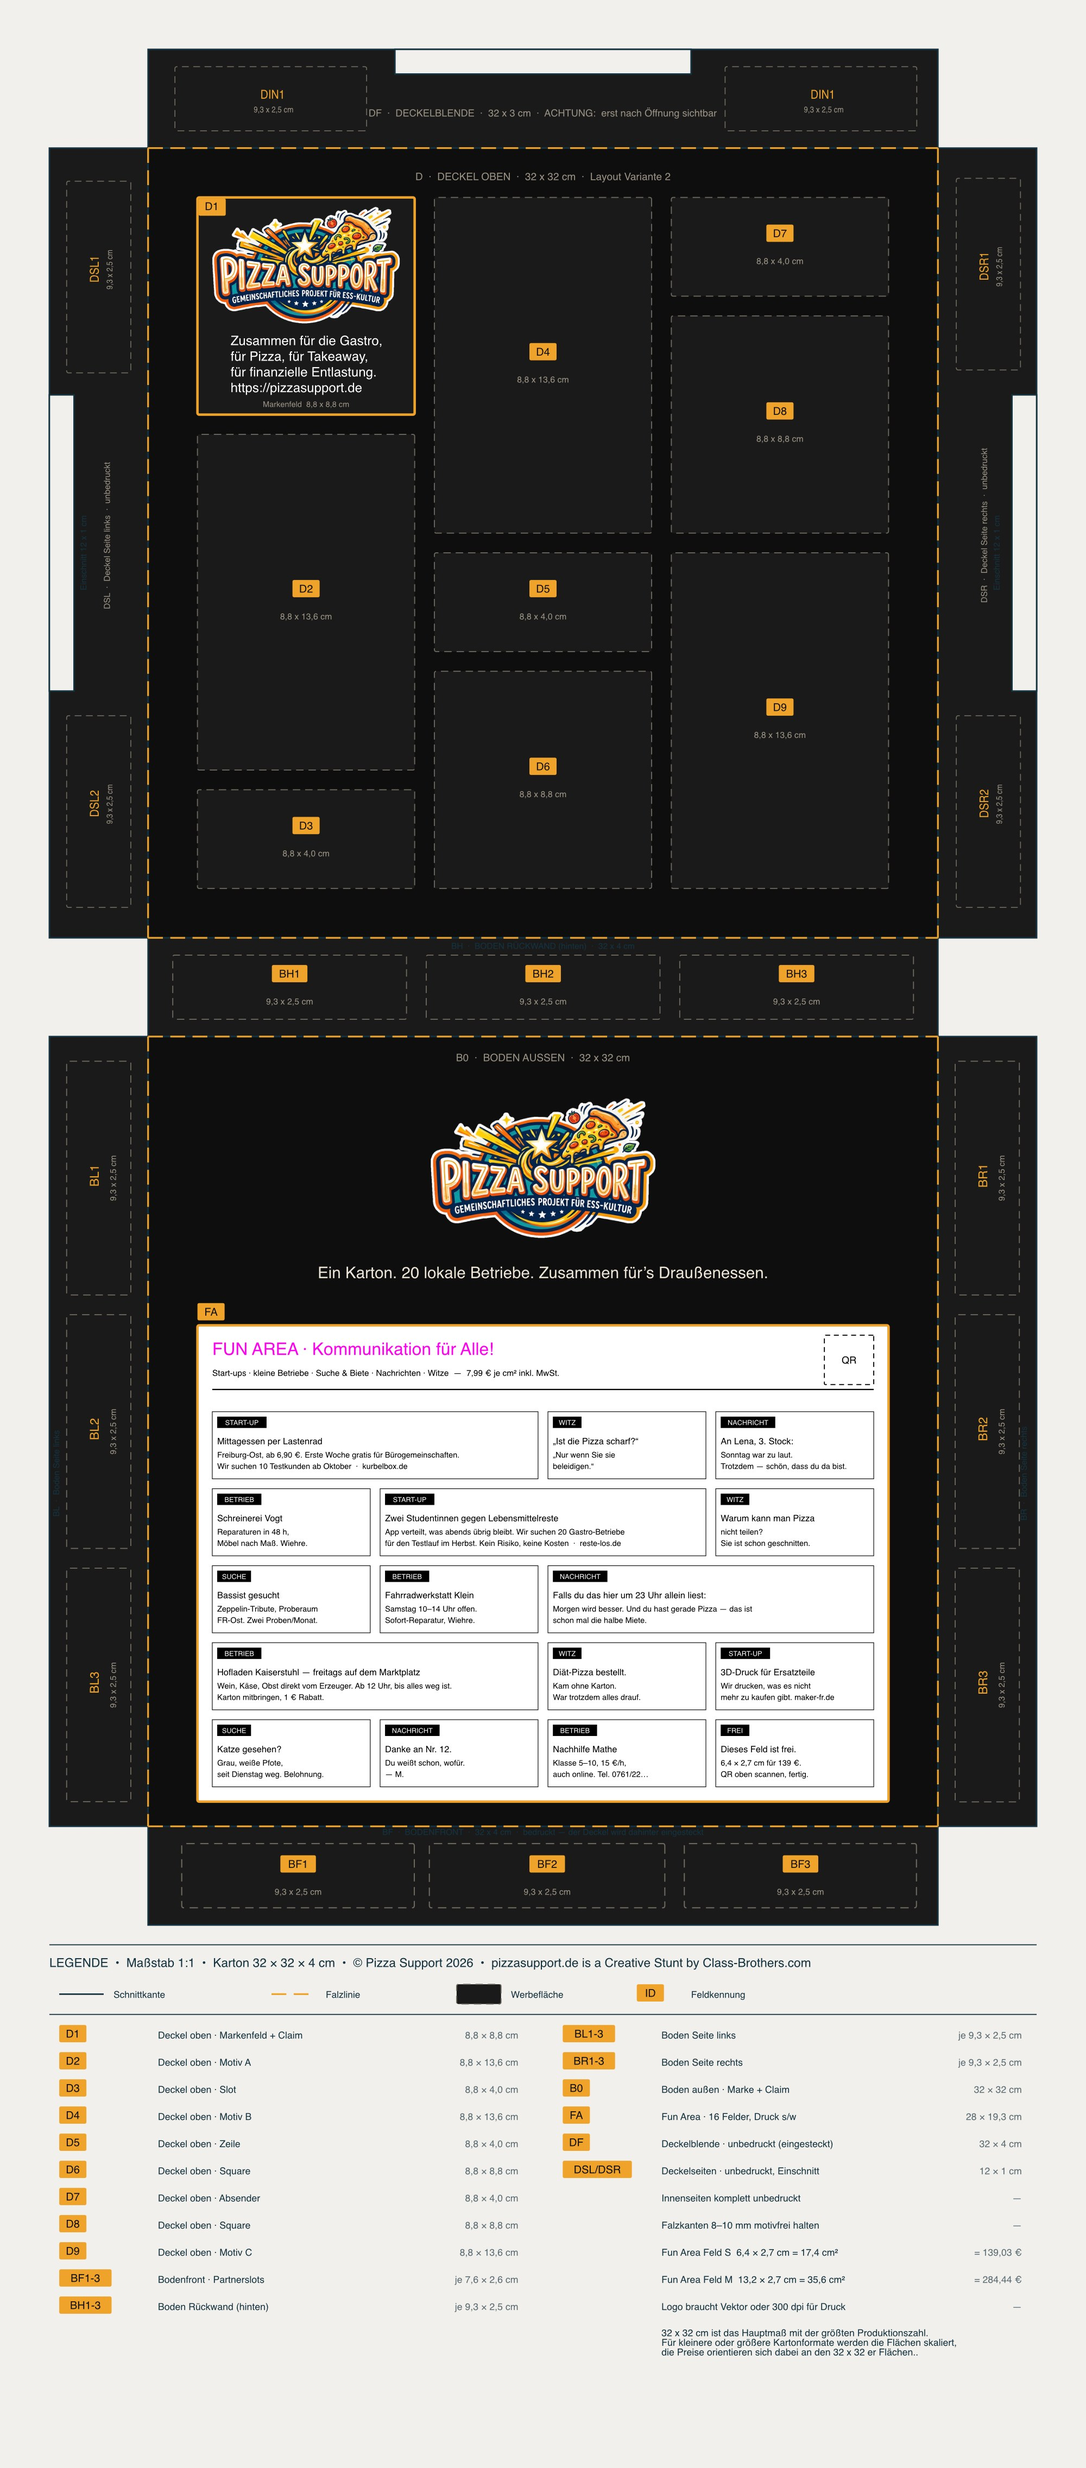
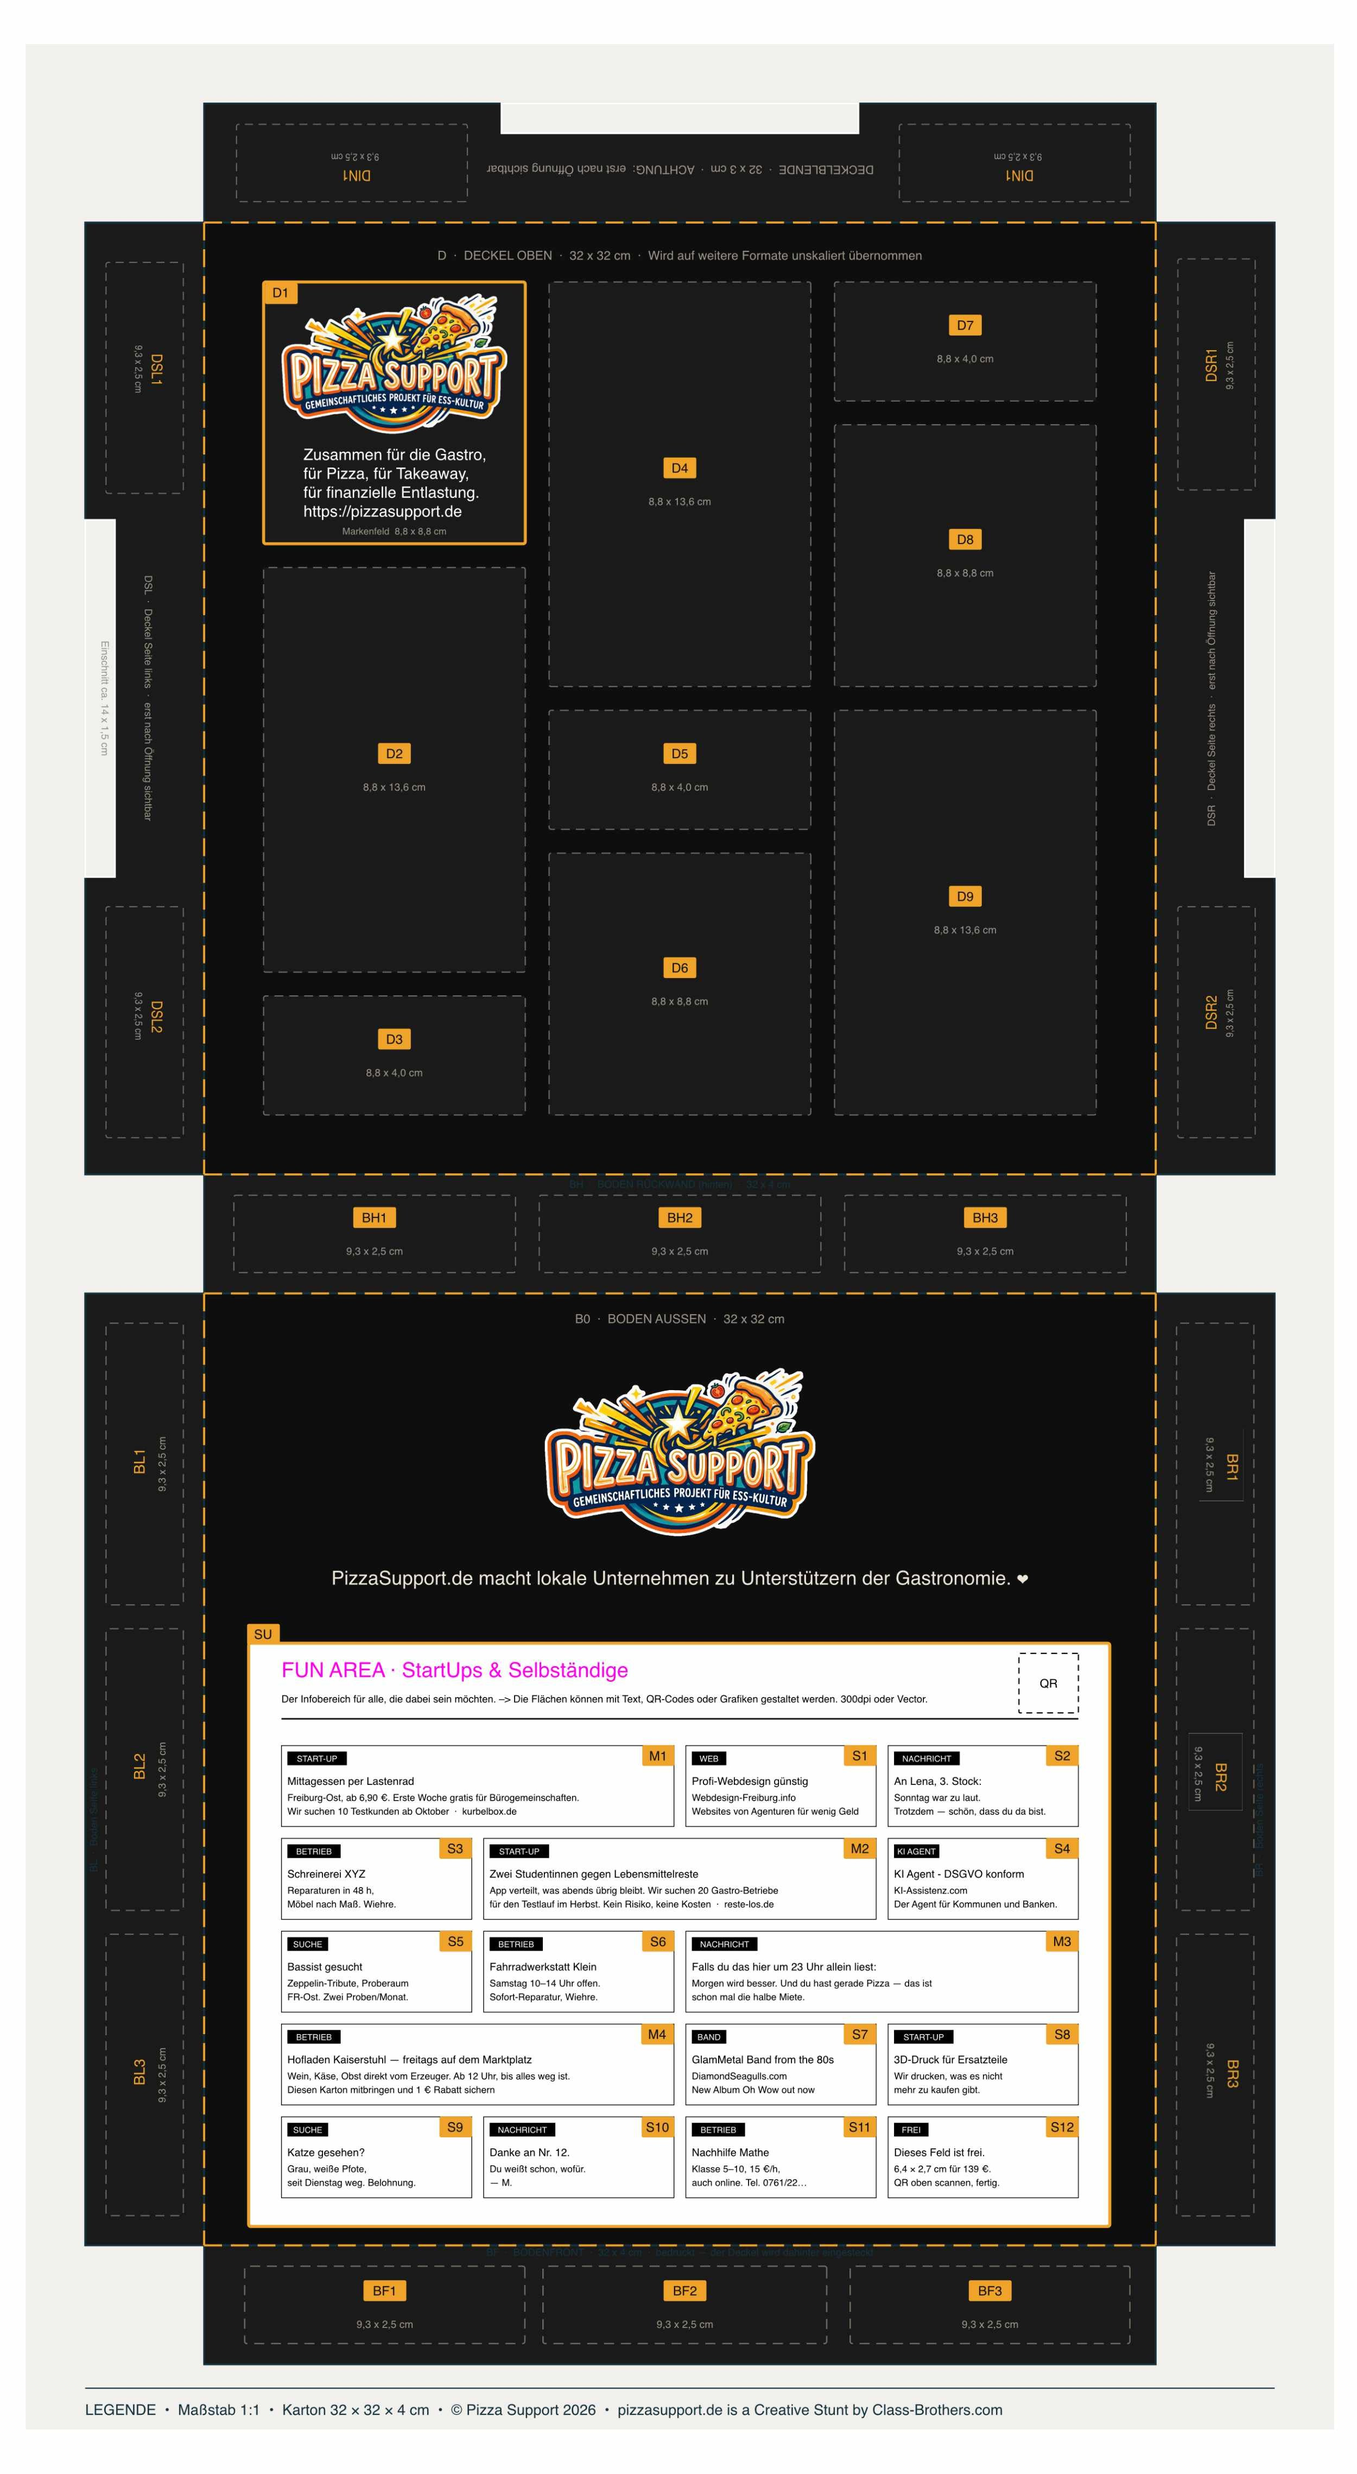
Neuer Flächenplan, Fun-Area-Rahmen, Upload-Formate
Flächenplan auf die neue Stanzplan-Grafik (Stanzplan V2) umgestellt:
größere Seitenränder, Legendentabelle entfällt, Seitenverhältnis von
2000x4545 auf 2500x4556 angepasst. Alle Umrandungen neu aus der Grafik
ausgemessen; die Fun-Area-Felder sind erstmals einzeln eingerahmt
(SU-S1 bis SU-S10, SU-M1 bis SU-M4).

Druckdatei-Upload: Hinweis auf 300dpi und die zulässigen Formate ergänzt,
serverseitig zusätzlich Tiff, SVG und EPS erlaubt (Prüfung weiter über den
Dateiinhalt, Ablage unverändert außerhalb des Web-Roots).

Datenschutz-Bestätigung im Buchungsformular um den Verarbeitungszweck
erweitert, "Jetzt" aus den Buchen-Schaltflächen entfernt.

Claude-Session: https://claude.ai/code/session_01CM6TP95YJnYHfB5A3JE3B9

diff --git a/pizzasupport/public/assets/css/main.css b/pizzasupport/public/assets/css/main.css
@@ -159,7 +159,7 @@
    Kinder (Lupenglas, Umrandungen) ihre height:% nicht aufloesen - dieselbe
    Falle wie schon bei .psk-map/.teilnehmer-eintrag/.wahl in dieser Datei,
    nur diesmal bei der Hoehe statt beim hidden-Attribut. */
-.flaechenplan-lupe{position:relative;aspect-ratio:2000/4545}
+.flaechenplan-lupe{position:relative;aspect-ratio:2500/4556}
 .flaechenplan-lupe a{display:block}
 .flaechenplan-bild{width:100%;height:auto;display:block;border-radius:var(--radius-karte);border:1px solid var(--rahmenfarbe)}
 /* Rundes Lupenglas, das per JS bei Mausbewegung positioniert und mit dem

diff --git a/pizzasupport/app/views/pages/flaeche-buchen.php b/pizzasupport/app/views/pages/flaeche-buchen.php
@@ -176,8 +176,12 @@ $gewaehlteFlaechen = is_array($gewaehlteFlaechen) ? $gewaehlteFlaechen : [];
         <legend>Dein Motiv</legend>
 
         <div class="feld<?= isset($fehler['motiv']) ? ' feld-fehler' : '' ?>">
-          <label for="w-motiv">Druckdatei hochladen <span class="feld-optional">(JPG, PNG, WebP oder PDF, max. 12 MB)</span></label>
-          <input type="file" id="w-motiv" name="motiv" accept=".jpg,.jpeg,.png,.webp,.pdf,image/jpeg,image/png,image/webp,application/pdf">
+          <label for="w-motiv">Druckdatei hochladen</label>
+          <input type="file" id="w-motiv" name="motiv"
+                 accept=".jpg,.jpeg,.tif,.tiff,.pdf,.svg,.eps,.png,image/jpeg,image/tiff,application/pdf,image/svg+xml,application/postscript,image/png">
+          <p class="feld-hilfe">
+            Datei muss in 300dpi vorliegen. Es sind JPG, Tiff, PDF, SVG und EPS möglich bis 12MB Größe.
+          </p>
           <?php if (isset($fehler['motiv'])): ?><p class="feld-meldung"><?= e($fehler['motiv']) ?></p><?php endif; ?>
         </div>
 
@@ -334,7 +338,12 @@ $gewaehlteFlaechen = is_array($gewaehlteFlaechen) ? $gewaehlteFlaechen : [];
         <div class="feld feld-check<?= isset($fehler['datenschutz_ok']) ? ' feld-fehler' : '' ?>">
           <label>
             <input type="checkbox" name="datenschutz_ok" value="1" required>
-            <span>Ich habe die <a href="/datenschutz.html" target="_blank" rel="noopener">Datenschutzhinweise</a> gelesen. <span class="pflicht" aria-hidden="true">*</span></span>
+            <span>
+              Ich habe die <a href="/datenschutz.html" target="_blank" rel="noopener">Datenschutzhinweise</a>
+              gelesen und stimme der Verarbeitung und Speicherung meiner Daten zum Zweck der
+              Kontaktaufnahme, Auftragsannahme und Verarbeitung zu.
+              <span class="pflicht" aria-hidden="true">*</span>
+            </span>
           </label>
           <?php if (isset($fehler['datenschutz_ok'])): ?><p class="feld-meldung"><?= e($fehler['datenschutz_ok']) ?></p><?php endif; ?>
         </div>
@@ -355,39 +364,57 @@ $gewaehlteFlaechen = is_array($gewaehlteFlaechen) ? $gewaehlteFlaechen : [];
 
     <?php if ($flaechenplanVorhanden): ?>
       <?php
-        // Einzelkoordinaten je Kennung, von Hand aus der Originalgrafik
-        // (2000 x 4545 px) abgemessen und in Prozent der Bildmasse
-        // umgerechnet. Fehlt eine Kennung hier (z.B. die neuen StartUp-
-        // Felder SU-S/SU-M, die im Plan noch nicht einzeln eingezeichnet
-        // sind), bleibt sie einfach ohne Hervorhebung buchbar - kein Fehler.
+        // Einzelkoordinaten je Kennung, aus der Originalgrafik
+        // (flaechenplan-gross.jpg, 2500 x 4556 px) ausgemessen und in
+        // Prozent der Bildmasse umgerechnet. Fehlt eine Kennung hier,
+        // bleibt sie einfach ohne Hervorhebung buchbar - kein Fehler.
+        // Das betrifft derzeit nur SU-M5: Der Plan zeichnet in der Fun Area
+        // vier M- und zwoelf S-Felder, der Flaechenkatalog fuehrt fuenf M-
+        // und zehn S-Felder. Beim Kunden angefragt, bis dahin bleibt der
+        // Katalog unveraendert (siehe config.php).
         $flaechenplanKennungKoordinaten = [
-            'D1'   => ['left' => 18.2, 'top' => 8.0,  'width' => 20.0, 'height' => 8.8],
-            'D2'   => ['left' => 18.2, 'top' => 17.7, 'width' => 20.0, 'height' => 13.6],
-            'D3'   => ['left' => 18.2, 'top' => 31.7, 'width' => 20.0, 'height' => 4.4],
-            'D4'   => ['left' => 40.0, 'top' => 8.0,  'width' => 20.0, 'height' => 13.6],
-            'D5'   => ['left' => 40.0, 'top' => 22.1, 'width' => 20.0, 'height' => 4.4],
-            'D6'   => ['left' => 40.0, 'top' => 27.0, 'width' => 20.0, 'height' => 8.8],
-            'D7'   => ['left' => 61.9, 'top' => 8.0,  'width' => 20.0, 'height' => 4.4],
-            'D8'   => ['left' => 61.9, 'top' => 13.3, 'width' => 20.0, 'height' => 8.8],
-            'D9'   => ['left' => 61.9, 'top' => 22.5, 'width' => 20.0, 'height' => 13.6],
-            'DIN1' => ['left' => 16.0, 'top' => 2.5,  'width' => 18.5, 'height' => 3.0],
-            'DIN2' => ['left' => 65.5, 'top' => 2.5,  'width' => 18.5, 'height' => 3.0],
-            'DSL1' => ['left' => 6.0,  'top' => 7.0,  'width' => 6.9,  'height' => 8.5],
-            'DSL2' => ['left' => 6.0,  'top' => 29.0, 'width' => 6.9,  'height' => 8.3],
-            'DSR1' => ['left' => 87.1, 'top' => 7.0,  'width' => 6.9,  'height' => 8.5],
-            'DSR2' => ['left' => 87.1, 'top' => 29.0, 'width' => 6.9,  'height' => 8.3],
-            'BH1'  => ['left' => 15.5, 'top' => 38.5, 'width' => 22.0, 'height' => 3.0],
-            'BH2'  => ['left' => 40.0, 'top' => 38.5, 'width' => 21.0, 'height' => 3.0],
-            'BH3'  => ['left' => 63.5, 'top' => 38.5, 'width' => 21.5, 'height' => 3.0],
-            'BL1'  => ['left' => 6.0,  'top' => 44.0, 'width' => 6.0,  'height' => 8.0],
-            'BL2'  => ['left' => 6.0,  'top' => 54.0, 'width' => 6.0,  'height' => 9.0],
-            'BL3'  => ['left' => 6.0,  'top' => 65.0, 'width' => 6.0,  'height' => 8.5],
-            'BR1'  => ['left' => 86.0, 'top' => 44.0, 'width' => 8.0,  'height' => 8.0],
-            'BR2'  => ['left' => 86.0, 'top' => 54.0, 'width' => 8.0,  'height' => 9.0],
-            'BR3'  => ['left' => 86.0, 'top' => 65.0, 'width' => 8.0,  'height' => 8.5],
-            'BF1'  => ['left' => 16.7, 'top' => 74.7, 'width' => 22.1, 'height' => 5.0],
-            'BF2'  => ['left' => 38.8, 'top' => 74.7, 'width' => 23.3, 'height' => 5.0],
-            'BF3'  => ['left' => 62.1, 'top' => 74.7, 'width' => 24.3, 'height' => 5.0],
+            'D1'     => ['left' => 19.32, 'top' => 11.35, 'width' => 19.44, 'height' => 10.67],
+            'D2'     => ['left' => 19.36, 'top' => 22.91, 'width' => 19.44, 'height' => 16.42],
+            'D3'     => ['left' => 19.4,  'top' => 40.21, 'width' => 19.4,  'height' => 4.92],
+            'D4'     => ['left' => 40.4,  'top' => 11.35, 'width' => 19.44, 'height' => 16.44],
+            'D5'     => ['left' => 40.44, 'top' => 28.67, 'width' => 19.4,  'height' => 4.92],
+            'D6'     => ['left' => 40.36, 'top' => 34.46, 'width' => 19.48, 'height' => 10.65],
+            'D7'     => ['left' => 61.44, 'top' => 11.37, 'width' => 19.4,  'height' => 4.87],
+            'D8'     => ['left' => 61.44, 'top' => 17.12, 'width' => 19.44, 'height' => 10.67],
+            'D9'     => ['left' => 61.44, 'top' => 28.69, 'width' => 19.44, 'height' => 16.42],
+            'DIN1'   => ['left' => 17.4,  'top' => 5.0,   'width' => 17.0,  'height' => 3.14],
+            'DIN2'   => ['left' => 66.24, 'top' => 5.0,   'width' => 17.04, 'height' => 3.14],
+            'DSL1'   => ['left' => 7.8,   'top' => 10.6,  'width' => 5.68,  'height' => 9.33],
+            'DSL2'   => ['left' => 7.8,   'top' => 36.63, 'width' => 5.68,  'height' => 9.33],
+            'DSR1'   => ['left' => 86.76, 'top' => 10.45, 'width' => 5.72,  'height' => 9.35],
+            'DSR2'   => ['left' => 86.76, 'top' => 36.63, 'width' => 5.72,  'height' => 9.33],
+            'BH1'    => ['left' => 17.2,  'top' => 48.31, 'width' => 20.76, 'height' => 3.12],
+            'BH2'    => ['left' => 39.72, 'top' => 48.31, 'width' => 20.76, 'height' => 3.12],
+            'BH3'    => ['left' => 62.24, 'top' => 48.31, 'width' => 20.72, 'height' => 3.12],
+            'BL1'    => ['left' => 7.8,   'top' => 53.47, 'width' => 5.68,  'height' => 11.39],
+            'BL2'    => ['left' => 7.8,   'top' => 65.83, 'width' => 5.68,  'height' => 11.37],
+            'BL3'    => ['left' => 7.8,   'top' => 78.18, 'width' => 5.68,  'height' => 11.35],
+            'BR1'    => ['left' => 86.68, 'top' => 53.47, 'width' => 5.68,  'height' => 11.39],
+            'BR2'    => ['left' => 86.68, 'top' => 65.83, 'width' => 5.68,  'height' => 11.37],
+            'BR3'    => ['left' => 86.68, 'top' => 78.18, 'width' => 5.68,  'height' => 11.35],
+            'BF1'    => ['left' => 18.0,  'top' => 91.59, 'width' => 20.64, 'height' => 3.12],
+            'BF2'    => ['left' => 40.0,  'top' => 91.59, 'width' => 20.88, 'height' => 3.12],
+            'BF3'    => ['left' => 62.64, 'top' => 91.59, 'width' => 20.6,  'height' => 3.12],
+            // Fun Area: im Plan als M1-M4 und S1-S12 beschriftet.
+            'SU-M1'  => ['left' => 20.8,  'top' => 70.59, 'width' => 28.84, 'height' => 3.2],
+            'SU-S1'  => ['left' => 50.6,  'top' => 70.59, 'width' => 13.92, 'height' => 3.2],
+            'SU-S2'  => ['left' => 65.52, 'top' => 70.59, 'width' => 13.88, 'height' => 3.2],
+            'SU-S3'  => ['left' => 20.8,  'top' => 74.34, 'width' => 13.92, 'height' => 3.2],
+            'SU-M2'  => ['left' => 35.68, 'top' => 74.34, 'width' => 28.84, 'height' => 3.2],
+            'SU-S4'  => ['left' => 65.52, 'top' => 74.34, 'width' => 13.88, 'height' => 3.23],
+            'SU-S5'  => ['left' => 20.8,  'top' => 78.09, 'width' => 13.92, 'height' => 3.2],
+            'SU-S6'  => ['left' => 35.68, 'top' => 78.07, 'width' => 13.96, 'height' => 3.23],
+            'SU-M3'  => ['left' => 50.6,  'top' => 78.09, 'width' => 28.8,  'height' => 3.2],
+            'SU-M4'  => ['left' => 20.8,  'top' => 81.85, 'width' => 28.84, 'height' => 3.2],
+            'SU-S7'  => ['left' => 50.6,  'top' => 81.85, 'width' => 13.92, 'height' => 3.2],
+            'SU-S8'  => ['left' => 65.52, 'top' => 81.85, 'width' => 13.88, 'height' => 3.2],
+            'SU-S9'  => ['left' => 20.8,  'top' => 85.6,  'width' => 13.92, 'height' => 3.2],
+            'SU-S10' => ['left' => 35.68, 'top' => 85.6,  'width' => 13.96, 'height' => 3.2],
         ];
 
         $verkauftMitKoordinaten = array_filter(

diff --git a/pizzasupport/app/lib/upload.php b/pizzasupport/app/lib/upload.php
@@ -2,9 +2,16 @@
 /**
  * Motiv-Uploads der Werbepartner.
  *
- * Regeln: nur Bild- und PDF-Formate, maximal 12 MB, Ablage ausserhalb des
- * Web-Roots unter zufaelligem Namen. Der Originalname wandert nur in die
- * Datenbank, nie ins Dateisystem.
+ * Regeln: nur druckfaehige Bild-, PDF- und Vektorformate, maximal 12 MB,
+ * Ablage ausserhalb des Web-Roots unter zufaelligem Namen. Der Originalname
+ * wandert nur in die Datenbank, nie ins Dateisystem.
+ *
+ * SVG und EPS koennen Skripte enthalten. Das ist hier vertretbar, weil die
+ * Dateien nie ueber den Webserver ausgeliefert werden: Sie liegen unter
+ * storage/uploads ausserhalb des Web-Roots, der Adminbereich zeigt nur den
+ * Dateinamen als Text an, und geholt werden sie per FTP. Wer die Ablage
+ * spaeter doch oeffentlich ausliefert, muss diese Typen vorher entfernen
+ * oder die Dateien beim Ausliefern zwingend als Download deklarieren.
  */
 
 declare(strict_types=1);
@@ -14,10 +21,16 @@ const UPLOAD_MAX_BYTES = 12 * 1024 * 1024;
 function upload_erlaubte_typen(): array
 {
     return [
-        'image/jpeg'      => 'jpg',
-        'image/png'       => 'png',
-        'image/webp'      => 'webp',
-        'application/pdf' => 'pdf',
+        'image/jpeg'            => 'jpg',
+        'image/tiff'            => 'tif',
+        'application/pdf'       => 'pdf',
+        'image/svg+xml'         => 'svg',
+        'application/postscript' => 'eps',
+        'image/x-eps'           => 'eps',
+        // PNG war bisher schon erlaubt und bleibt es - im Hinweistext steht
+        // es nicht mehr, abgewiesen wird eine brauchbare Datei deswegen aber
+        // nicht.
+        'image/png'             => 'png',
     ];
 }
 
@@ -44,8 +57,19 @@ function upload_motiv(?array $datei): array
     $finfo = new finfo(FILEINFO_MIME_TYPE);
     $mime  = (string) $finfo->file($datei['tmp_name']);
     $typen = upload_erlaubte_typen();
+
+    // Aeltere libmagic-Versionen erkennen eine SVG-Datei nur als XML oder
+    // Text. Dann selbst nachsehen, statt eine gueltige Datei abzuweisen -
+    // der Inhalt entscheidet weiterhin, nicht die Endung.
+    if (!isset($typen[$mime]) && in_array($mime, ['text/xml', 'application/xml', 'text/plain', 'text/html'], true)) {
+        $anfang = (string) file_get_contents($datei['tmp_name'], false, null, 0, 4096);
+        if (stripos($anfang, '<svg') !== false) {
+            $mime = 'image/svg+xml';
+        }
+    }
+
     if (!isset($typen[$mime])) {
-        return ['ok' => false, 'fehler' => 'Erlaubt sind JPG, PNG, WebP und PDF.'];
+        return ['ok' => false, 'fehler' => 'Erlaubt sind JPG, Tiff, PDF, SVG und EPS.'];
     }
 
     $ziel_dir = APP_ROOT . '/storage/uploads/' . gmdate('Y/m');

diff --git a/pizzasupport/app/views/pages/werbepartner.php b/pizzasupport/app/views/pages/werbepartner.php
@@ -87,7 +87,7 @@ $f = fortschritt_oeffentlich();
         Deiner Marke und die Unterstützung von Gastro und Gästen.
       </p>
       <div class="hero-aktionen">
-        <a class="btn btn-primaer btn-gross" href="/flaeche-buchen.html">Fläche jetzt buchen</a>
+        <a class="btn btn-primaer btn-gross" href="/flaeche-buchen.html">Fläche buchen</a>
         <a class="btn btn-sekundaer btn-gross" href="#preise">Preise ansehen</a>
       </div>
     </div>
@@ -155,7 +155,7 @@ $f = fortschritt_oeffentlich();
     </div>
 
     <p class="zwischen-cta">
-      <a class="btn btn-primaer btn-gross" href="/flaeche-buchen.html">Fläche jetzt buchen</a>
+      <a class="btn btn-primaer btn-gross" href="/flaeche-buchen.html">Fläche buchen</a>
     </p>
   </div>
 </section>
@@ -226,7 +226,7 @@ $f = fortschritt_oeffentlich();
       steht auf der Seite zur <a href="/verpackungssteuer-freiburg.html">Freiburger Verpackungssteuer</a>.
     </p>
     <p class="zwischen-cta">
-      <a class="btn btn-primaer btn-gross" href="/flaeche-buchen.html">Fläche jetzt buchen</a>
+      <a class="btn btn-primaer btn-gross" href="/flaeche-buchen.html">Fläche buchen</a>
     </p>
   </div>
 </section>
@@ -258,7 +258,7 @@ $f = fortschritt_oeffentlich();
       etwas entsteht. Die Buchung selbst dauert wenige Minuten.
     </p>
     <p>
-      <a class="btn btn-primaer btn-gross" href="/flaeche-buchen.html">Fläche jetzt buchen</a>
+      <a class="btn btn-primaer btn-gross" href="/flaeche-buchen.html">Fläche buchen</a>
     </p>
   </div>
 </section>

diff --git a/pizzasupport/app/views/partials/kauft.php b/pizzasupport/app/views/partials/kauft.php
@@ -35,7 +35,7 @@ $kauftPunkte = [
     </ul>
     <?php if (!empty($kauftMitCta)): ?>
       <p class="zwischen-cta">
-        <a class="btn btn-primaer btn-gross" href="/flaeche-buchen.html">Fläche jetzt buchen</a>
+        <a class="btn btn-primaer btn-gross" href="/flaeche-buchen.html">Fläche buchen</a>
       </p>
     <?php endif; ?>
   </div>
